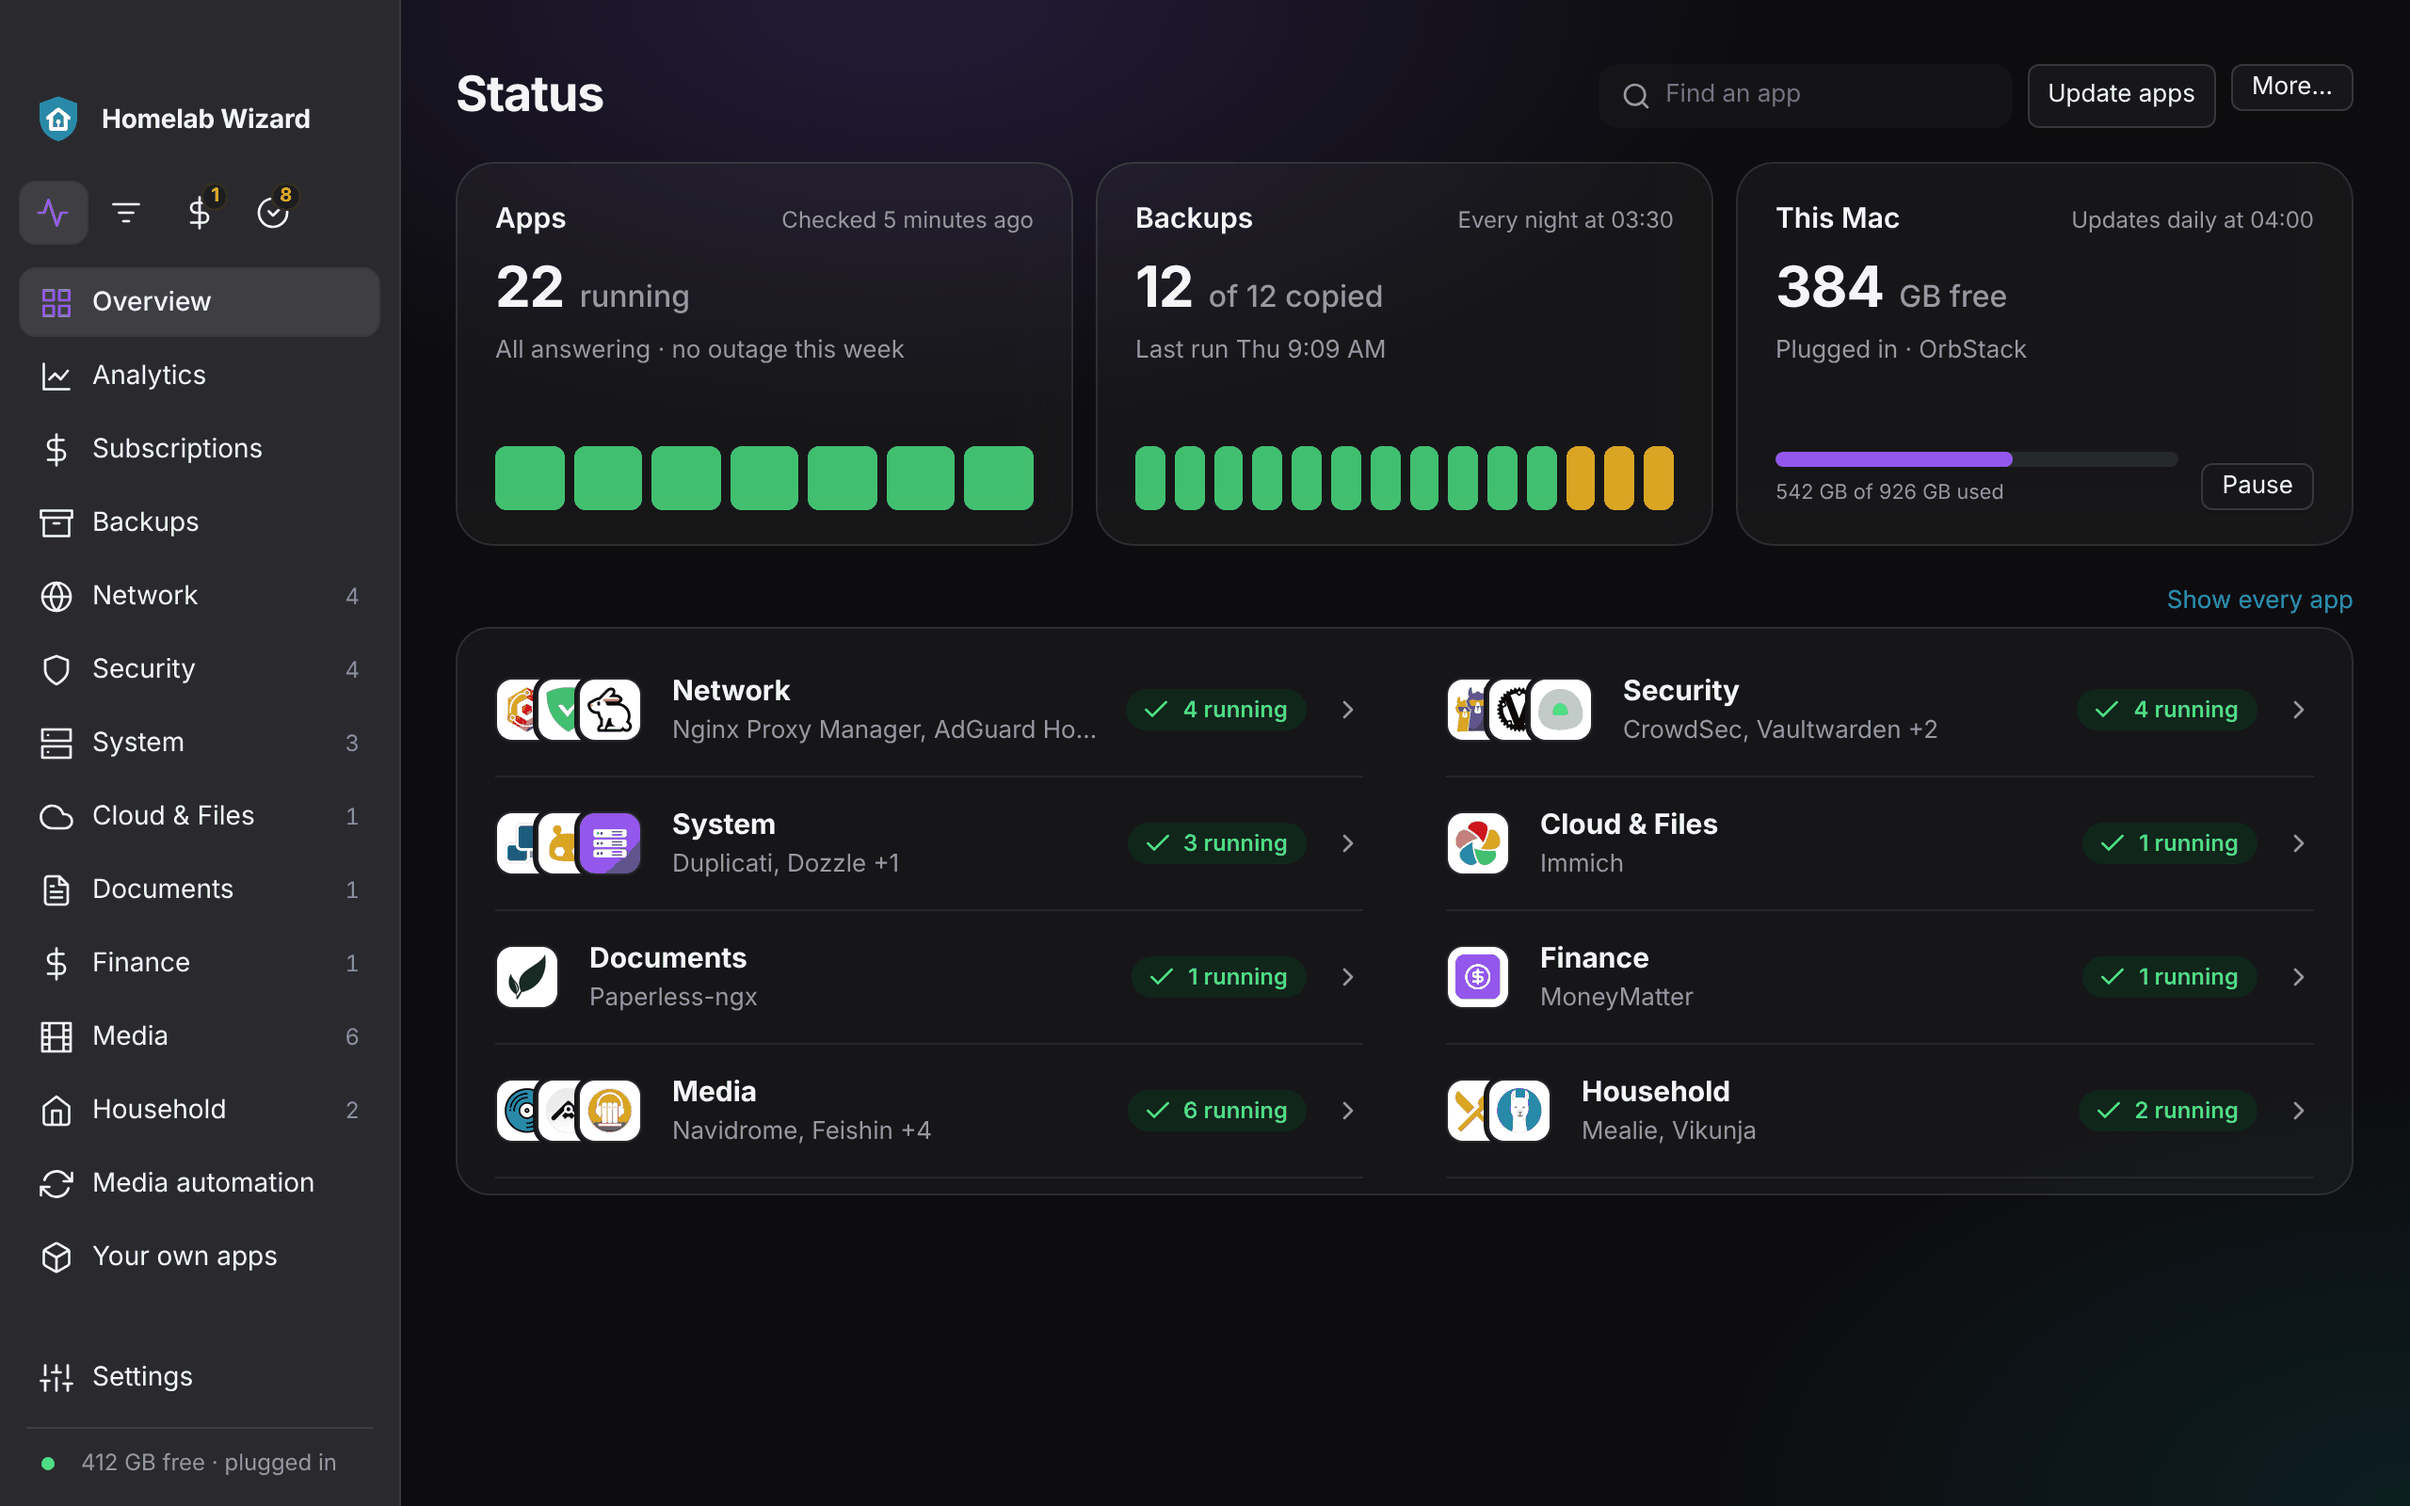
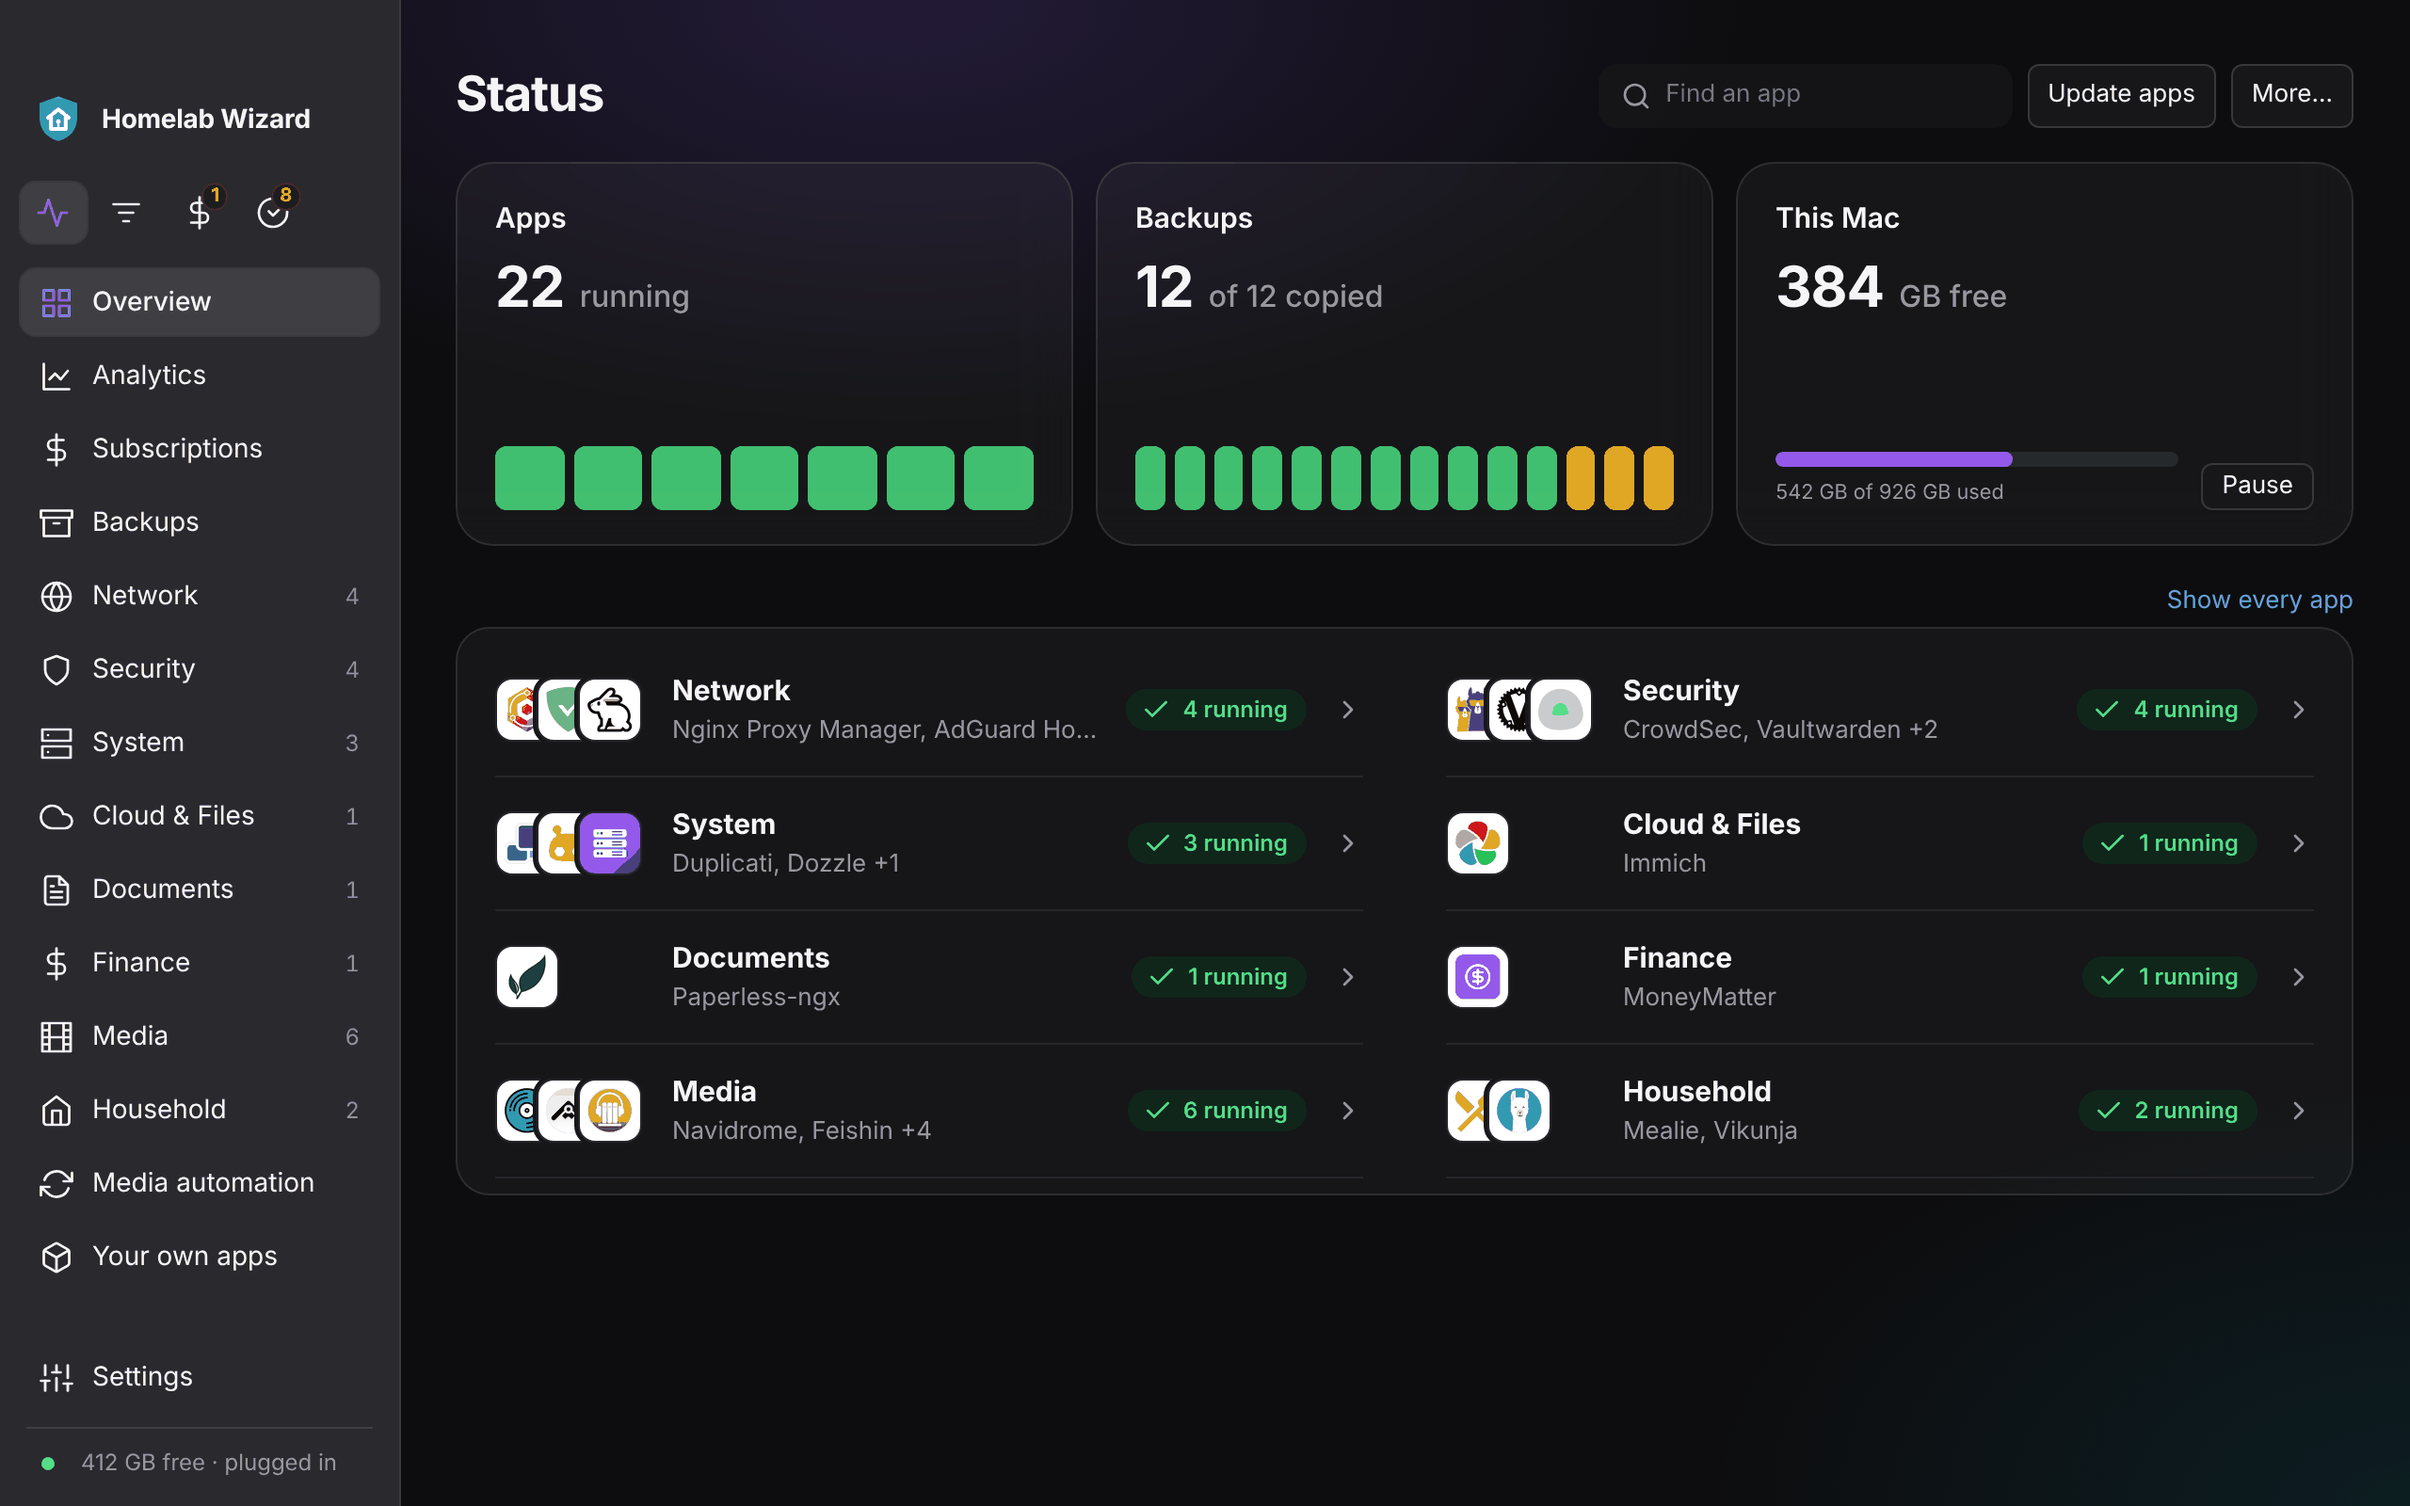
Status lines up: More… beside Update apps, category names in one column
More… in Status' toolbar now stretches with Update apps beside it, and
the Overview's category rows give their logos a fixed width, so each
name starts in the same place with one logo or three. The iPhone and
iPad rows do the same. A smoke check measures both.

Claude-Session: https://claude.ai/code/session_01MiSTxrm6MCnNDF7kXW7KV6

diff --git a/web/dist/style.css b/web/dist/style.css
@@ -376,6 +376,7 @@ html.user-accent, html.user-accent:is(.os-windows, .os-mac, .os-linux) { --accen
 }
 
 .menuwrap { position:relative; }
+.toolbar > .menuwrap { display:flex; }
 .menu { position:absolute; right:0; top:calc(100% + 6px); z-index:5; min-width:220px; padding:6px; background:var(--panel); border:1px solid var(--line); border-radius:10px; box-shadow:0 8px 24px var(--navy-shade-14); }
 .menu button { display:block; width:100%; text-align:left; padding:8px 10px; border:0; border-radius:6px; background:none; color:var(--text); font:inherit; }
 .menu button:hover, .menu button:focus-visible { background:var(--accent-soft); color:var(--link); }
@@ -3111,7 +3112,7 @@ nav .sidemenulist .sidedot + .total { margin-left:8px; }
 .ovrow { all:unset; box-sizing:border-box; display:flex; align-items:center; gap:14px; width:100%; padding:14px 0; cursor:default; }
 .ovrow:focus-visible { outline:2px solid var(--accent); outline-offset:2px; border-radius:8px; }
 .ovrow:hover strong { color:var(--link); }
-.ovlogos { display:flex; flex:none; }
+.ovlogos { display:flex; flex:none; width:72px; }
 .ovlogos .appmark.mini { width:34px; height:34px; border-radius:9px; margin-right:-6px; box-shadow:0 0 0 2px var(--panel); }
 .ovname { flex:1; min-width:0; display:flex; flex-direction:column; margin-left:8px; }
 .ovname strong { font-size:15px; }

diff --git a/apple-client/Shared/Views/StatusOverview.swift b/apple-client/Shared/Views/StatusOverview.swift
@@ -535,6 +535,7 @@ struct CategoryRow: View {
                     AppIconView(app: app, size: size, stateBadge: false)
                 }
             }
+            .frame(width: typeSize.isAccessibilitySize ? nil : size * 2.4, alignment: .leading)
             VStack(alignment: .leading, spacing: 2) {
                 Text(verbatim: category.label)
                     .font(.headline)

diff --git a/CHANGELOG.md b/CHANGELOG.md
@@ -325,6 +325,7 @@ Notes are grouped as **New**, **Improved**, and **Fixed**, one line each, in pla
 - **Bills on the Homelab app shows a pay period as the computer does:** on the iPhone and iPad, each pay period starts with whose paycheck it is, says what checking holds on payday once its own payments are out and what the period itself comes to, lists every account after it with what changed, and says under each bill how it's paid: its kind, on a card, from another account, or from someone else.
 - **The Homelab app's Transactions search finds what the computer's finds:** on the iPhone and iPad, search by what a charge came to (86.10 or 1,240.55), its day (Oct 28) or its account, as well as the payee, category, note or tag. Each word you type can be anywhere in the row, so *corner work* finds Corner Café tagged work.
 <!-- Everything else (the other lanes): add a line just below this one. -->
+- **Status lines up:** on the computer and the web page, *More…* sits level with *Update apps*, and each category's name starts in the same place whether it shows one logo or three. The same on the iPhone and iPad.
 - **Media automation tucked away on Status:** Seerr, where you ask for a film or show, now sits beside Jellyfin under Media. Prowlarr, Sonarr, Radarr and the other apps that find and download what you ask for sit last, folded under one line, *Media automation: finds and downloads what you ask for in Seerr*, and open with a click or when one needs a look. The Downloads card above says what they're getting.
 - **A download nobody is sharing no longer sits there:** after 6 hours stuck, Tidy Up hands it back to Sonarr, Radarr or Lidarr, which drop that release and look for another, and Recent activity says so. Downloads still moving, and ones you added to qBittorrent yourself, are left alone; *Try another after a stuck download* in Settings changes the hours, 0 turns it off.
 - **Connect apps says once, in plain words, when Sonarr, Radarr and Lidarr keep their own filing:** one line instead of the same warning three times, and no settings' code names. When it's because Tidy Up files downloads only when you press Tidy up now, a button (or, in the terminal, a yes) lets Tidy Up file them as they arrive and connects again, which hands them over to Tidy Up.
